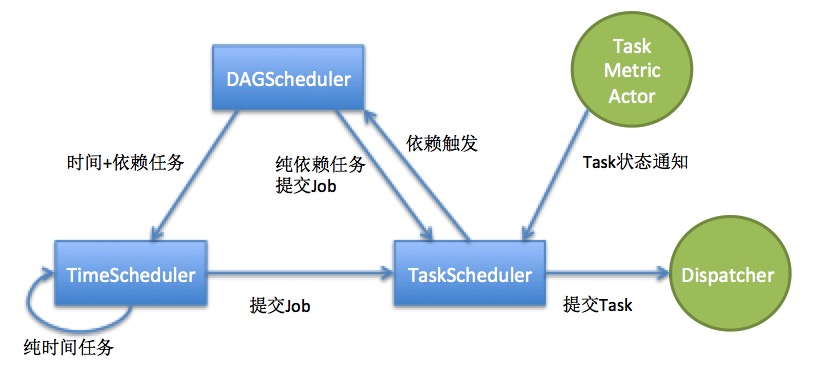
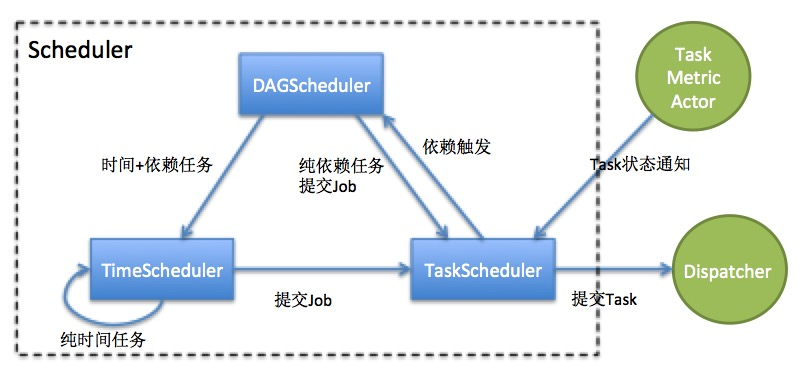
update jarvis2_design.md

Changed region(s): [[0.0, 0.0293, 1.0, 0.9654]]

diff --git a/docs/design/jarvis2_design.md b/docs/design/jarvis2_design.md
@@ -20,11 +20,13 @@
 
 - 任务支持重试、重试次数、重试间隔的配置
 
-- 改进通信协议，采用更可靠的通信机制（Netty + Protocol Buffers）
+- 支持任务类型：纯时间任务，单亲纯依赖任务，多亲时间+依赖任务
 
-- 支持时间触发、依赖触发两种调度方式
+- 支持依赖配置：runtime依赖，offset依赖
 
-- 能够方便地修改执行计划
+- 支持历史任务按照新的依赖关系重跑
+
+- 在一个task ready之前，对该job配置关系的任何修改（比如调度时间和依赖关系）能够动态生效。
 
 - 支持细粒度周期（小于天）任务的调度
 
@@ -50,15 +52,19 @@
 
 - Server
 
->主要由调度器（时间调度器、依赖调度器）、执行队列、任务分发器组成
+>与worker,rest server,DB交互
 
->对任务（包括周期性、非周期性）进行调度管理，根据任务的时间或依赖条件以及分发策略将任务发送给对应的Worker执行
+>接收rest server的请求，添加、修改任务
+
+>核心模块由Scheduler和Dispatcher组成，负责任务的调度和分发。
 
 >监听Worker的注册信息
 
 >接收Worker发送的心跳汇报
 
 >以HA方式运行
+
+>无状态，持久化信息维护在DB中，异常重启可以重建所有job和task
 
 - Worker
 
@@ -99,9 +105,9 @@
 
 ### 2.3 模块设计
 
-#### 2.3.1 调度模块总体设计
+#### 2.3.1 调度器(Scheduler)设计
 
-调度器作为调度系统的心脏，主要作用是进行任务的调度。在该系统设计中，能实现纯时间任务，单亲纯依赖任务，多亲时间+依赖任务。
+调度器作为调度系统的心脏，主要作用是进行任务的调度。在该系统设计中，能实现对纯时间任务，单亲纯依赖任务，多亲时间+依赖任务的调度。
 
 调度器由三个子模块组成：TimeScheuler, DAGScheduler和TaskScheduler。
 
@@ -110,7 +116,7 @@
 调度器（Scheduler）和分发器（Dispatcher）之间是生产者和消费者的关系，Scheduler提交task给Dispatcher。只要Dispatcher空闲，就会拿走进行分发。
 
 
-![调度器](http://gitlab.mogujie.org/bigdata/jarvis2/raw/master/docs/design/img/scheduler_design.png)
+![调度器设计](http://gitlab.mogujie.org/bigdata/jarvis2/raw/master/docs/design/img/scheduler_design.png)
 
 如上图所示：  
 
@@ -121,69 +127,25 @@
 - TaskScheduler对task进行调度，接收task状态反馈，进行持久化、失败重试、后续任务触发等逻辑。TimeScheduler和DAGScheduler相当于生产者，输入job；TaskScheduler相当于消费者，输出为task. 为了处理重跑等逻辑，TaskScheduler内部还维护了一个TaskGraph进行task的依赖触发，不会干扰DAGScheduler的正常调度。
 
 
+#### 2.3.2 分发器(Dispatcher)设计
 
-#### 2.3.2 依赖调度器(DAGScheduler)
+Dispatcher通过push的方式，由任务分发器按照可扩展的分发策略，主动推送任务给某一个worker执行任务。
 
-依赖调度器是一个单例，内部维护一个plan表，DAG表和一个running表。
+Dispatcher由ExecuteQueue,TaskDispatcher,RetryScheduler 3个子模块组成。
 
-- plan表是定时任务下一周期（比如一小时）的执行计划，由定时调度器（比如quartz）进行调度。
+![分发器设计](http://gitlab.mogujie.org/bigdata/jarvis2/raw/master/docs/design/img/Dispatcher_design.png)
 
-- DAG表维护所有的任务的依赖关系，一条记录通过jobid唯一标识，需要处理DependencyModifyEvent, SuccessEvent。
+- ExecuteQueue维护已经进入ready状态的task，由Scheduler提交，由TaskDispatcher进行消费。在该设计中，支持按照优先级先后顺序进行分发任务，所以内部实现是一个优先级队列。每次会把优先级最高的任务拿出给TaskDispatcher进行消费。
 
-- running表处理正在running的任务，一条记录通过taskid唯一标识，处理自己的SuccessEvent和FailedEvent。
+- TaskDispatcher从执行队列中获取task，通过可扩展的分发策略提交给某一个worker进行执行。默认的分发策略：轮询分发策略(RoundRobin)、随机分发策略(Random)。同时，TaskDispatcher还支持流控策略。
 
-- DAG表中每一条记录表示一个DAGJob，主要维护父子关系（定时任务只有孩子，没有父亲），依赖状态等信息，并提供依赖检查的方法。DAGJob是一个抽象类，至少支持DAGonly任务，Time+DAG任务，Time+DAG+offset任务的实现。
-
-- DAG表中的父子关系与DB中的jobDependency表映射，每次系统启动的时候，会通过该表重建DAG表所有任务，建立父子关系，并进行循环依赖检测。
-
-- DAG表中的依赖状态与DB中的jobDependStatus表映射。
-
-- 每次DAG表中父子关系或者依赖状态的修改，都确保实时更新到DB中相应的表中。
-
-![依赖调度器](http://gitlab.mogujie.org/bigdata/jarvis2/raw/master/docs/design/img/dependency_based_scheduler_new.png)
-
-如上图所示
-
-- DAG依赖任务调度：
-
-1. 系统启动的时候，从DB中的jobDependency表重建所有任务到DAG表中，并从jobDependStatus表恢复每个DAGJob的依赖状态。
-2. 定时调度器调度plan表中的task，如果该任务没有依赖，加入到running表中，进入步骤4. 如果有依赖，从DAG表中找到该job，标记time_ready标识为true，进入步骤3.
-3. 对DAG表中的某一任务进行依赖检查，如果通过依赖检查，就会把该任务加入到running表中，然后进入步骤4.
-4. running表新增一条记录会分配一个唯一的taskid，并提交该task到ExecuteQuere中，同时复位依赖状态.
-5. TaskScheduler负责提交任务和状态结果反馈，当收到某个任务成功时，发送SuccessEvent给DAGScheduler。DAGScheduler收到成功事件会做两件事：1）把该任务的taskid所在的记录从running表中移除。2）先从DAG表中找到该任务的孩子，分别对每一个孩子，从DAG表中找到它，更新依赖状态，然后进入步骤3。
-6. TaskScheduler发送某个任务的失败事件时，running表通过失败重试策略进行失败重试。
-7. 如果修改了依赖关系，需要修改DAG表中的依赖关系，并更新到DB中的jobDependency表和jobDependStatus表，并重新对DAG表中的受影响的任务进行第3步操作。如果任务已经引入了running表，不做处理。
-
-
-- 支持不通周期依赖策略的调度：  
-DAG依赖任务的前置依赖可能有不同的周期，现在有三种依赖策略：ANYONE, LASTONE, ALL。比如c依赖于a和b，a一小时跑4次，b一小时跑1次。  
-ANYONE表示b成功，a四次中任意一次成功都可以触发c;  
-LASTONE表示b成功，a四次中最后一次成功才可以触发c；  
-ALL表示b成功，a四次中全部成功才可以触发c；  
-
-
-- 非正常逻辑任务的调度：  
-对于临时的，有复杂依赖的，非周期性的Plan，会需要由外部工具生成一份独立的Cron表来执行，JobID和原来的JobID是不一样的。这样任务触发的逻辑也不会和正常周期任务的处理逻辑混淆，调度流程也一致。 唯一的问题是，job的信息汇总比较麻烦，可以通过比如id里面特殊前后缀等来处理？
-
-
-
-#### 2.3.3 任务分发器(JobDispatcher)
-
-server通过push的方式，由任务分发器按照可扩展的分发策略，主动推送任务给某一个worker执行任务。
-
-- 任务分发策略可自定义扩展
-
-- 默认的分发策略：轮询分发策略(RoundRobin)、随机分发策略(Random)
-
-- 按照任务的优先级分发
-
-- 当分发的任务被Worker拒绝时，任务分发器将选择同一个组内的另一个Worker分发
-
-- 未避免任务分发过于频繁，当所有的Worker都拒绝后，任务分发器需间隔一段时间后再尝试重新发送
-
-- 当任务运行失败时，根据重试配置重新分发任务
+- RetryScheduler负责对拒绝的任务进行重试，通过配置的拒绝策略，延迟一段时间后再重新提交给执行队列。
 
 	
+#### 2.3.3 job executor设计
+
+TODO	
+
 
 #### 2.3.4 任务接受策略(Job Accept Strategy)
 
